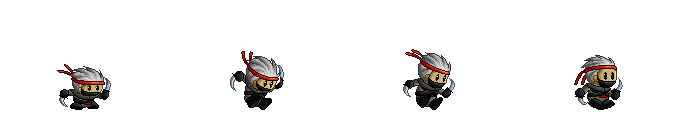
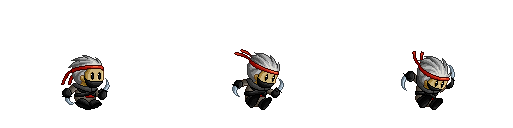
add knight

Changed region(s): [[0.3119, 0.375, 0.6862, 0.875], [0.0624, 0.4375, 0.2183, 0.875], [0.7797, 0.4062, 0.9357, 0.875]]

diff --git a/src/entities/Hero.js b/src/entities/Hero.js
@@ -6,7 +6,8 @@ class Hero extends Phaser.GameObjects.Sprite {
 
     static HeroTypes = Object.freeze({
         MAGE: "mage",
-        ROGUE: "rogue" 
+        ROGUE: "rogue",
+        KNIGHT: "knight"
     });
 
     keyLeft;
@@ -40,6 +41,9 @@ class Hero extends Phaser.GameObjects.Sprite {
         } else if(this.heroType == Hero.HeroTypes.ROGUE) {
             this.body.setSize(31, 52);
             this.body.setOffset(74, 52);
+        } else if(this.heroType == Hero.HeroTypes.KNIGHT) {
+            this.body.setSize(32, 50);
+            this.body.setOffset(73, 58);
         }
 
         this.body.setCollideWorldBounds(true);
@@ -63,6 +67,12 @@ class Hero extends Phaser.GameObjects.Sprite {
 
     updateHeroState() {
 
+        /*********
+        fix commented this.body.setOffset below (depends on character type)
+        
+        */
+
+
         if(!(this.body instanceof Phaser.Physics.Arcade.Body)) {
             return;
         }
@@ -81,7 +91,7 @@ class Hero extends Phaser.GameObjects.Sprite {
         if (this.keyLeft.isDown && this.keyShift.isUp && isOnFloor) {
             this.body.setMaxVelocity(200, 400);
             this.body.setAccelerationX(-500);
-            this.body.setOffset(171 - 70 - 33, 57);
+            //this.body.setOffset(171 - 70 - 33, 57);
             this.setFlipX(true);
             this.heroState = 'walk';
         }
@@ -89,7 +99,7 @@ class Hero extends Phaser.GameObjects.Sprite {
         if (this.keyLeft.isDown && this.keyShift.isDown && isOnFloor) {
             this.body.setMaxVelocity(400, 400);
             this.body.setAccelerationX(-500);
-            this.body.setOffset(171 - 70 - 33, 57);
+            //this.body.setOffset(171 - 70 - 33, 57);
             this.setFlipX(true);
             this.heroState = 'run';
         }
@@ -97,7 +107,7 @@ class Hero extends Phaser.GameObjects.Sprite {
         if (this.keyRight.isDown && this.keyShift.isUp && isOnFloor) {
             this.body.setMaxVelocity(200, 400);
             this.body.setAccelerationX(500);
-            this.body.setOffset(70, 57);
+            //this.body.setOffset(70, 57);
             this.setFlipX(false);
             this.heroState = 'walk';
 
@@ -106,7 +116,7 @@ class Hero extends Phaser.GameObjects.Sprite {
         if (this.keyRight.isDown && this.keyShift.isDown && isOnFloor) {
             this.body.setMaxVelocity(400, 400);
             this.body.setAccelerationX(500);
-            this.body.setOffset(70, 57);
+            //this.body.setOffset(70, 57);
             this.setFlipX(false);
             this.heroState = 'run';
         }

diff --git a/src/scenes/Game.js b/src/scenes/Game.js
@@ -6,7 +6,7 @@ import Hero from '../entities/Hero';
 
 class Game extends Phaser.Scene {
 
-  heroType = Hero.HeroTypes.MAGE;
+  heroType = Hero.HeroTypes.KNIGHT;
 
   preload() {
     this.load.image('knight', `assets/${this.heroType}/${this.heroType}.png`);
@@ -17,9 +17,10 @@ class Game extends Phaser.Scene {
     this.load.spritesheet('run-spritesheet', `assets/${this.heroType}/run.png`, { frameWidth: 171, frameHeight: 128 });
     this.load.spritesheet('fall-spritesheet', `assets/${this.heroType}/fall.png`, { frameWidth: 171, frameHeight: 128 });
     this.load.spritesheet('attack-spritesheet', `assets/${this.heroType}/attack.png`, { frameWidth: 171, frameHeight: 128 });
+    this.load.spritesheet('landing-spritesheet', `assets/${this.heroType}/landing.png`, { frameWidth: 171, frameHeight: 128 });
+
     this.load.spritesheet('fire-move-spritesheet', `assets/${this.heroType}/fire-move.png`, { frameWidth: 128, frameHeight: 128 });
     this.load.spritesheet('fire-explosion-spritesheet', `assets/${this.heroType}/fire-explosion.png`, { frameWidth: 128, frameHeight: 128 });
-    this.load.spritesheet('landing-spritesheet', `assets/${this.heroType}/landing.png`, { frameWidth: 171, frameHeight: 128 });
 
     this.load.tilemapTiledJSON('level1', 'assets/tilemaps.json');
     this.load.image('level1-sheet', 'assets/tiles/tiles.png ');
